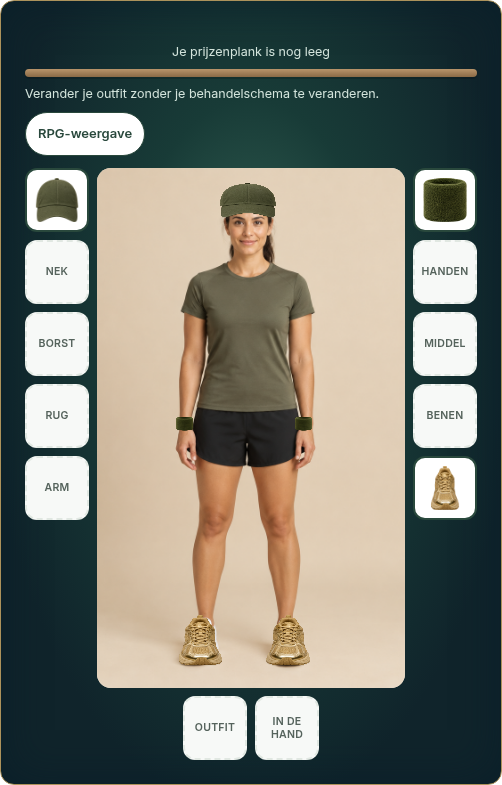
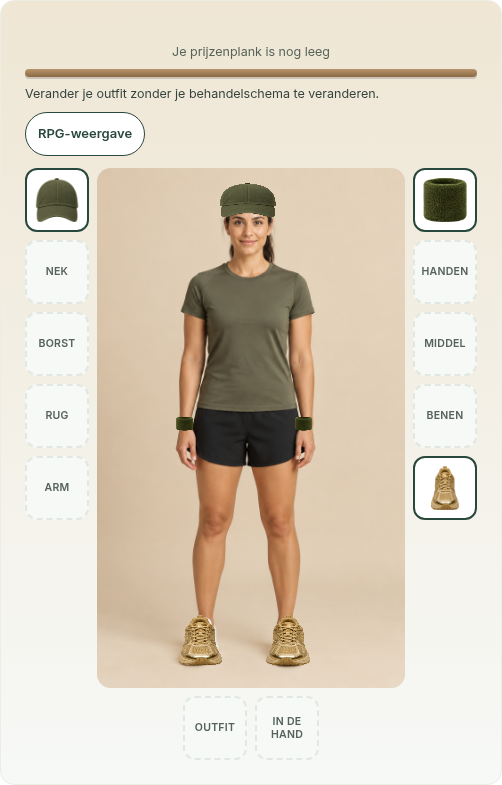
Restore warm sand inventory palette from the reference

diff --git a/web/src/components/hero/rpg.css b/web/src/components/hero/rpg.css
@@ -1,11 +1,11 @@
-.rpg-stage{background:radial-gradient(ellipse at 50% 42%,#386858 0%,#183b37 36%,#10242b 75%);border:1px solid #ac925b;box-shadow:inset 0 0 45px #071d29aa}
-.rpg-podium{position:relative;background:radial-gradient(ellipse at 50% 94%,#c9b57480 0%,#72bca22a 12%,transparent 45%)}
-.rpg-podium svg{filter:drop-shadow(0 7px 5px #041b20aa)}
+.rpg-stage{background:linear-gradient(180deg,#efe6d4 0%,#f7f9f7 100%);border:1px solid #edece5}
+.rpg-podium{position:relative;background:radial-gradient(ellipse at 50% 94%,#c9b57440 0%,#e6eee830 18%,transparent 45%)}
+.rpg-podium svg{filter:drop-shadow(0 5px 4px #4c473526)}
 .rpg-item{animation:rpg-equip .28s ease-out}
 .rpg-loot{background:radial-gradient(ellipse,#e8cf8177,transparent 65%);animation:rpg-reveal .6s ease-out}
 @keyframes rpg-equip{from{opacity:.2}to{opacity:1}}
 @keyframes rpg-reveal{from{opacity:0;transform:translateY(12px) scale(.92)}to{opacity:1;transform:none}}
 @media(prefers-reduced-motion:reduce){.rpg-item,.rpg-loot{animation:none}}
-.rpg-shelf .text-ink-600,.rpg-shelf .text-ink-700{color:#d3e4dc}
-.rpg-stage button:focus-visible{outline:3px solid #f1d58c;outline-offset:3px}
+.rpg-shelf .text-ink-600,.rpg-shelf .text-ink-700{color:#566359}
+.rpg-stage button:focus-visible{outline:3px solid #29483c;outline-offset:3px}
 .rpg-item[data-rpg-item="crown"],.rpg-item[data-rpg-item="gold_shoes"]{filter:drop-shadow(0 0 1.5px #e9c86b80)}

diff --git a/web/src/pages/patient/HeroPages.tsx b/web/src/pages/patient/HeroPages.tsx
@@ -1055,7 +1055,7 @@ function CharacterScreen({ d, busy, onSave, onBuy, preview, onPreview }: { onPre
     <div className="rpg-stage mt-3 rounded-2xl p-3 sm:p-6">
       <div className="mb-2 rpg-shelf"><TrophyShelf d={d} compact /></div>
       <div className="mb-3 flex flex-wrap items-center justify-between gap-2">
-        <p className="text-[12.5px] text-[#d3e4dc]">{t('Verander je outfit zonder je behandelschema te veranderen.', 'Change your outfit without changing your treatment.')}</p>
+        <p className="text-[12.5px] text-ink-700">{t('Verander je outfit zonder je behandelschema te veranderen.', 'Change your outfit without changing your treatment.')}</p>
         <button type="button" onClick={() => setIllustrated(x => !x)} aria-pressed={illustrated} className="tap inline-flex min-h-[44px] items-center rounded-full border border-accent bg-white px-3 text-[13px] font-semibold text-accent hover:bg-accent-soft">
           {illustrated ? t('Fotoweergave', 'Photo view') : t('RPG-weergave', 'RPG view')}
         </button>

diff --git a/docs/photo-fitting/README.md b/docs/photo-fitting/README.md
@@ -1,5 +1,7 @@
 # Photographic equipment review
 
+The inventory surround uses the original warm sand-to-off-white palette, dark readable text and forest-green focus accents. Desktop and mobile screenshots below were regenerated and visually checked after this palette correction.
+
 The inventory now starts with the existing photographic avatar and reuses the existing photographic outfit and accessory assets. The illustrated view is retained as an optional alternative. Try-on stays in the selected view; view choice lasts for the browser session. The thumbnail and worn accessory use the same photographic texture.
 
 This iteration reduces the cap from 16.5% to 14.5% of the photo width, lowers its dome, preserves space above the eyes, and positions headwear against the face centre rather than the image centre. Seven source images have explicit reviewed head anchors. A smoother alpha cutoff removes the old product-image halo while retaining edge antialiasing; a small shadow helps the contact edge. Hand and foot pairs use the asymmetric pose of the source photograph rather than blindly reflecting around 50%.
